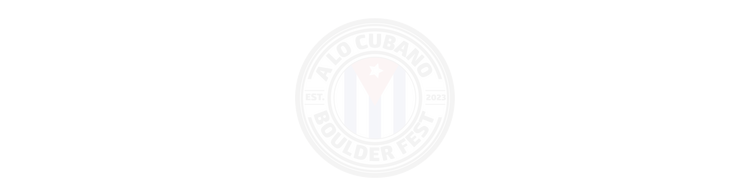
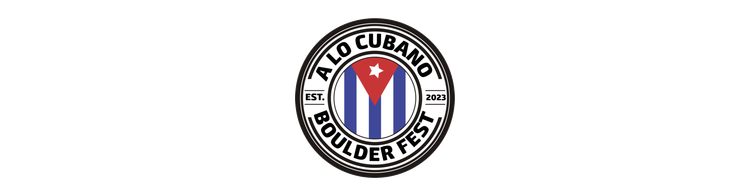
fix(wallet): critical QR code fix and visual improvements
CRITICAL FIX:
- Fix QR code not displaying by using setBarcodes() AFTER setting pass.type
  (setting type deletes barcodes from constructor)

VISUAL IMPROVEMENTS:
- Remove logo from header position
- Display logo at 100% opacity in strip (not 5% watermark)
- Reorganize fields to avoid white text overlay on strip:
  * No primary fields
  * Secondary: EVENT, TICKET TYPE, ATTENDEE, DATES
  * Back: ORDER (moved from auxiliary)

TECHNICAL CHANGES:
- Follow passkit-generator v3 API pattern: type → barcodes → fields
- Remove logo image loading (logo now in strip only)
- Update strip generation script for 100% opacity

🤖 Generated with [Claude Code](https://claude.com/claude-code)

Changed region(s): [[0.368, 0.0918, 0.6133, 0.9184]]

diff --git a/lib/apple-wallet-service.js b/lib/apple-wallet-service.js
@@ -479,16 +479,7 @@ export class AppleWalletService {
       backgroundColor: "rgb(255, 255, 255)",   // White background
       labelColor: "rgb(206, 17, 38)",          // Cuban red labels only
       // logoText removed - logo image stands alone for proper color control
-
-      // Barcode configuration
-      barcodes: [
-        {
-          format: "PKBarcodeFormatQR",
-          message: qrToken,
-          messageEncoding: "iso-8859-1",
-          altText: ticket.ticket_id,
-        },
-      ],
+      // Barcodes removed from constructor - will be set after pass.type using setBarcodes()
 
       // Relevance information
       relevantDate: this.eventStartDate,
@@ -512,17 +503,23 @@ export class AppleWalletService {
     console.log(`  - foregroundColor: ${passProps.foregroundColor}`);
     console.log(`  - backgroundColor: ${passProps.backgroundColor}`);
     console.log(`  - labelColor: ${passProps.labelColor}`);
-    console.log(`  - logoText: "${passProps.logoText}"`);
-    console.log(`  - barcode format: ${passProps.barcodes[0].format}`);
-    console.log(`  - barcode message length: ${passProps.barcodes[0].message.length} chars`);
 
     // CORRECT v3 API usage:
     // new PKPass(buffers, certificates, props)
     const pass = new PKPass({}, certificateConfig, passProps);
 
-    // CRITICAL: Set the pass type BEFORE adding fields
-    // Setting type initializes empty field arrays
+    // CRITICAL: Set the pass type BEFORE adding barcodes and fields
+    // Setting type initializes empty field arrays and must come first
     pass.type = "eventTicket";
+
+    // CRITICAL: Add barcode AFTER setting type (setting type deletes constructor barcodes)
+    pass.setBarcodes({
+      format: "PKBarcodeFormatQR",
+      message: qrToken,
+      messageEncoding: "iso-8859-1",
+      altText: ticket.ticket_id,
+    });
+    console.log(`[Apple Wallet] Barcode set: QR format, message length ${qrToken.length} chars`);
 
     // Add fields using .push() method (v3 requirement)
     // DO NOT use pass.eventTicket = {...} as it doesn't persist
@@ -541,15 +538,15 @@ export class AppleWalletService {
       return `${monthNames[start.getMonth()]} ${start.getDate()} - ${monthNames[end.getMonth()]} ${end.getDate()}, ${start.getFullYear()}`;
     };
 
-    // Primary fields
-    console.log(`[Apple Wallet] Adding primary field - EVENT: "${ticket.event_name}"`);
-    pass.primaryFields.push({
+    // No primary fields - all info in secondary fields to avoid overlaying strip
+
+    // Secondary fields (displayed below strip image)
+    console.log(`[Apple Wallet] Adding secondary fields`);
+    pass.secondaryFields.push({
       key: "event",
       label: "EVENT",
       value: ticket.event_name,
     });
-
-    // Secondary fields
     pass.secondaryFields.push({
       key: "ticket-type",
       label: "TICKET TYPE",
@@ -564,20 +561,20 @@ export class AppleWalletService {
         "Guest",
     });
 
-    // Auxiliary fields
-    pass.auxiliaryFields.push({
+    pass.secondaryFields.push({
       key: "date",
       label: "DATES",
       value: formatDateRange(ticket.start_date, ticket.end_date),
     });
 
-    pass.auxiliaryFields.push({
+    // No auxiliary fields - all important info in secondary fields
+
+    // Back fields (flip side of pass)
+    pass.backFields.push({
       key: "order",
       label: "ORDER",
       value: ticket.order_number || ticket.transaction_id,
     });
-
-    // Back fields
     pass.backFields.push({
       key: "venue",
       label: "VENUE",
@@ -610,33 +607,10 @@ export class AppleWalletService {
         "Must be 21+ with valid ID. Subject to venue capacity.",
     });
 
-    // Add images (logo, icon, etc.)
-    // These should be added to your project
+    // Add images (icon, strip)
+    // Logo removed - displayed at 100% opacity in strip image instead
     try {
       const projectRoot = path.join(__dirname, "..");
-
-      // Logo - 160x50 points
-      const logoPath = path.join(projectRoot, "public", "wallet", "logo.png");
-      const logoBuffer = await fs.readFile(logoPath);
-      pass.addBuffer("logo.png", logoBuffer);
-
-      const logo2xPath = path.join(
-        projectRoot,
-        "public",
-        "wallet",
-        "logo@2x.png",
-      );
-      const logo2xBuffer = await fs.readFile(logo2xPath);
-      pass.addBuffer("logo@2x.png", logo2xBuffer);
-
-      const logo3xPath = path.join(
-        projectRoot,
-        "public",
-        "wallet",
-        "logo@3x.png",
-      );
-      const logo3xBuffer = await fs.readFile(logo3xPath);
-      pass.addBuffer("logo@3x.png", logo3xBuffer);
 
       // Icon - 29x29 points
       const iconPath = path.join(projectRoot, "public", "wallet", "icon.png");

diff --git a/public/wallet/generate-wallet-images.js b/public/wallet/generate-wallet-images.js
@@ -37,9 +37,9 @@ async function generateWalletImages() {
     await generateIcon(58, 58, 'icon@2x.png');
     await generateIcon(87, 87, 'icon@3x.png');
 
-    // 3. Generate Strip Images with Watermark
-    // Strip goes behind primary fields, won't block QR code
-    console.log('\n🎨 Generating strip images with watermark...');
+    // 3. Generate Strip Images with Logo
+    // Strip displays logo at 100% opacity, goes behind secondary fields
+    console.log('\n🎨 Generating strip images with logo...');
     await generateStrip(375, 98, 80, 'strip.png');
     await generateStrip(750, 196, 160, 'strip@2x.png');
     await generateStrip(1125, 294, 240, 'strip@3x.png');
@@ -89,9 +89,9 @@ async function generateIcon(width, height, filename) {
 }
 
 /**
- * Generate strip image with centered watermark
- * White background with logo at 5% opacity
- * Strip goes behind primary fields, won't block QR code
+ * Generate strip image with centered logo
+ * White background with logo at 100% opacity (fully visible)
+ * Strip goes behind secondary fields, won't block QR code
  */
 async function generateStrip(width, height, logoSize, filename) {
   const outputPath = join(OUTPUT_DIR, filename);
@@ -108,42 +108,23 @@ async function generateStrip(width, height, logoSize, filename) {
   .png()
   .toBuffer();
 
-  // Resize logo for watermark
-  const watermarkResized = await sharp(SOURCE_LOGO)
+  // Resize logo (100% opacity - fully visible)
+  const logo = await sharp(SOURCE_LOGO)
     .resize(logoSize, logoSize, {
       fit: 'contain',
       background: { r: 255, g: 255, b: 255, alpha: 0 }
     })
-    .ensureAlpha()
-    .raw()
-    .toBuffer({ resolveWithObject: true });
+    .png()
+    .toBuffer();
 
-  // Apply 5% opacity to watermark by reducing alpha channel
-  const { data, info } = watermarkResized;
-  for (let i = 0; i < data.length; i += 4) {
-    // Reduce alpha channel to 5% of original
-    data[i + 3] = Math.floor(data[i + 3] * 0.05);
-  }
-
-  // Convert back to PNG buffer
-  const watermark = await sharp(data, {
-    raw: {
-      width: info.width,
-      height: info.height,
-      channels: 4
-    }
-  })
-  .png()
-  .toBuffer();
-
-  // Composite watermark on strip
+  // Composite logo on strip
   // Position: center
   const centerX = Math.floor((width - logoSize) / 2);
   const centerY = Math.floor((height - logoSize) / 2);
 
   await sharp(background)
     .composite([{
-      input: watermark,
+      input: logo,
       top: centerY,
       left: centerX,
       blend: 'over'
@@ -151,7 +132,7 @@ async function generateStrip(width, height, logoSize, filename) {
     .png()
     .toFile(outputPath);
 
-  console.log(`  ✓ ${filename} (${width}x${height}, ${logoSize}x${logoSize} logo @ 5% opacity)`);
+  console.log(`  ✓ ${filename} (${width}x${height}, ${logoSize}x${logoSize} logo @ 100% opacity)`);
 }
 
 // Run the generator
